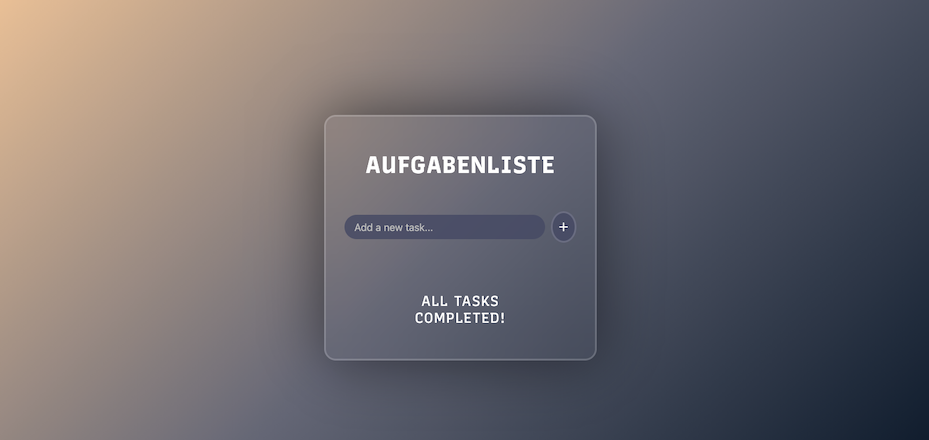
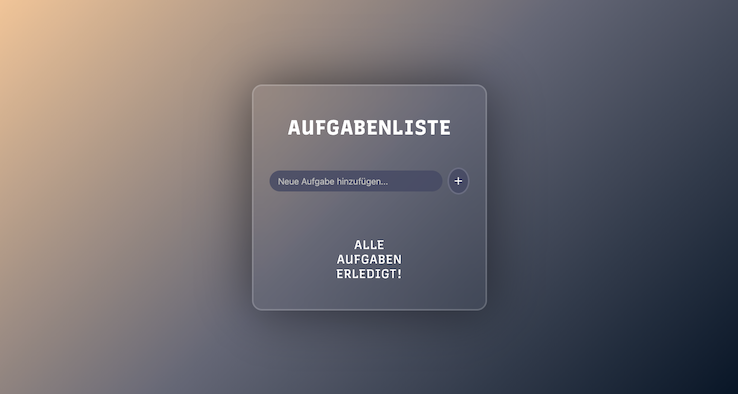
Change README photo to show changes, update HTML text to German.

diff --git a/index.html b/index.html
@@ -18,14 +18,14 @@
         <div class="todo-app">
             <h1>Aufgabenliste</h1>
             <form class="input-area">
-                <input type="text" id="task-input" placeholder="Add a new task...">
+                <input type="text" id="task-input" placeholder="Neue Aufgabe hinzufügen...">
                 <button type="button" id="add-task-btn">＋</button>
             </form>
             <div class="todos-container">
                 <ul id="task-list">
 
                 </ul>
-                <p class="completed-message">All tasks completed!</p>
+                <p class="completed-message">Alle Aufgaben erledigt!</p>
             </div>
         </div>
     </div>
